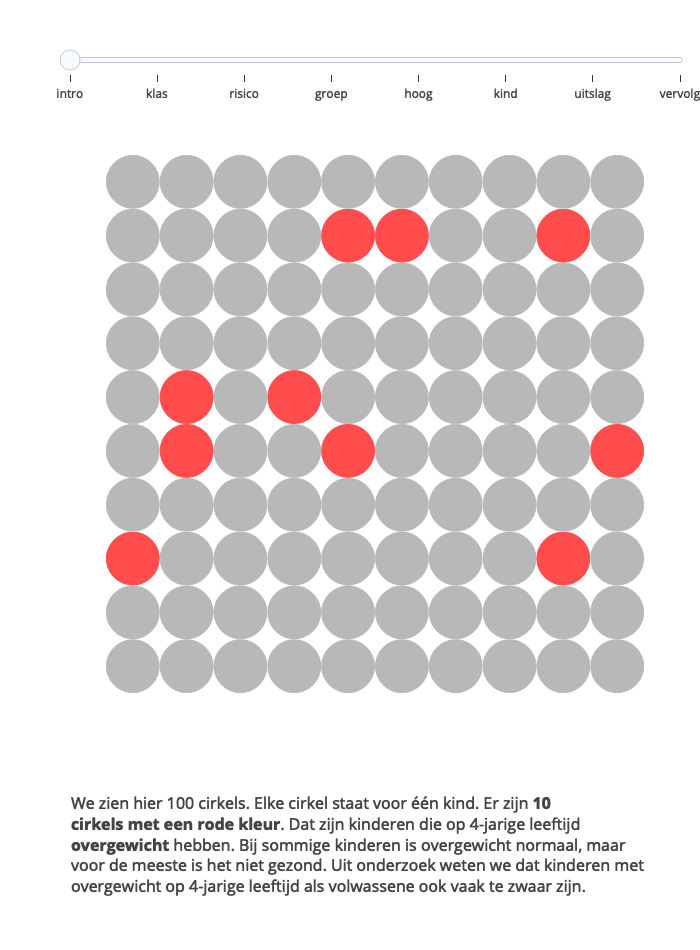
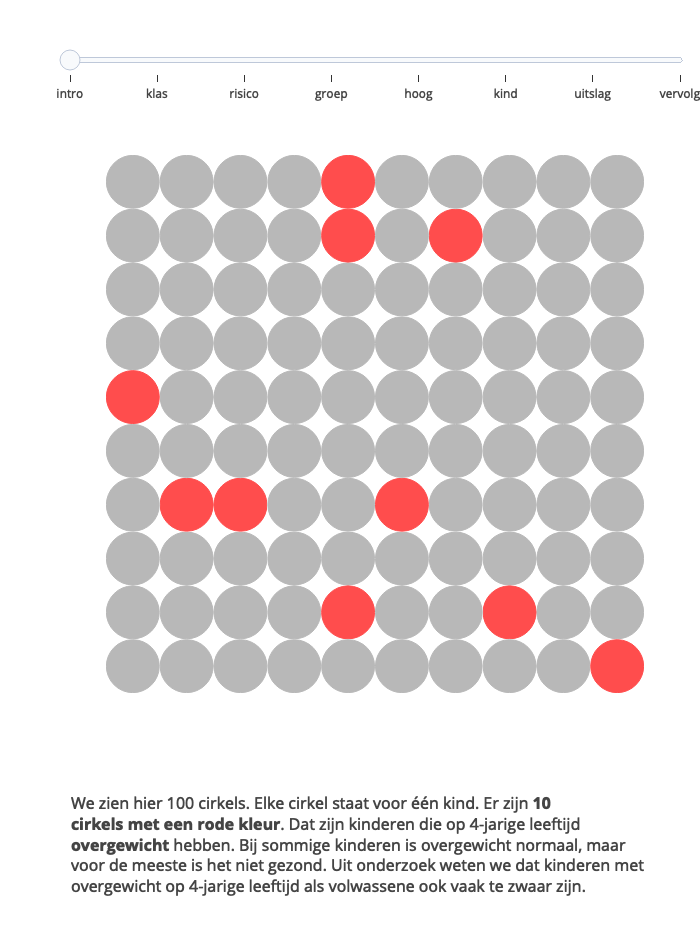
Update README

diff --git a/README.md b/README.md
@@ -58,14 +58,20 @@ fig
 
 ## Shiny app
 
-The Shiny app implements models to predict future overweight and
-language deficit at age 4 years. The overweight model is designed to be
-applied at the age of **4 months**. The language deficit modek should be
-applied around the age of **24 months**.
+The Shiny app implements models to predict
 
-To run the Shiny app on your machine, execute
+- overweight at age 4 years from data at age 4 months;
+- language deficit at age 4 years from data at age 2 years;
+- preterm birth (\<32 weeks) at week 16-20 of pregnancy.
+
+To run the Shiny app background in RStudio viewer, select the file
+`shiny/shiny-run.R` in editor, in tab “Background Jobs” press “Start
+Background Job”, check that “script path” ends in `shiny/shiny-run.R`
+and that “working directory” is `shiny`, then press `Start`. Go to
+Console and run
 
 ``` r
-library(tab10)
-go()
+rstudioapi::viewer("http://127.0.0.1:4276")
 ```
+
+You can then see live changes made in `shiny/app.R` in the viewer.
